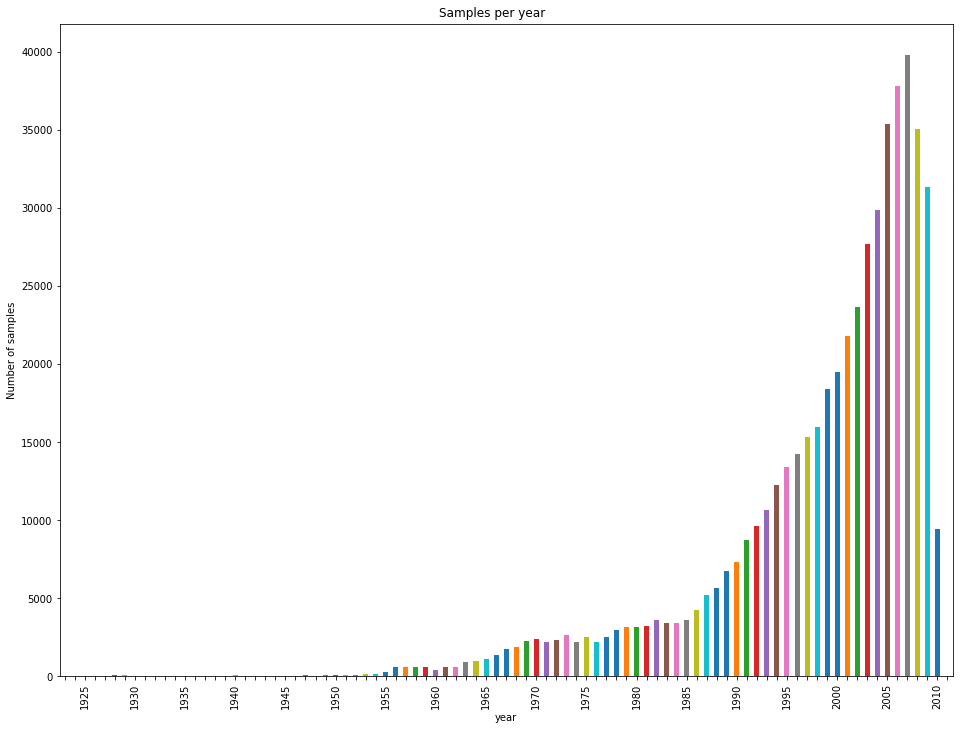
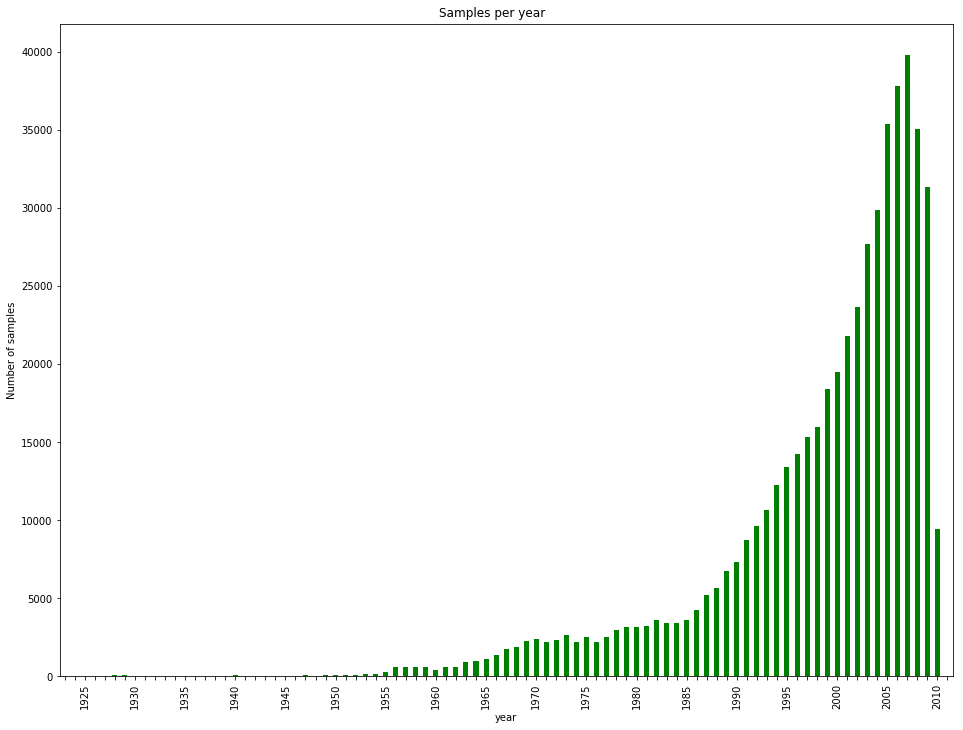
Update plot, update html

Changed region(s): [[0.405, 0.0904, 0.9969, 0.9342]]

diff --git a/FinalProject/datastory/test1.html b/FinalProject/datastory/test1.html
@@ -349,9 +349,39 @@
 			<!--Image here -->
 		</div>
 		<div class="container reveal_right col s6">
-			<p>
-			<!--Text here -->
+			<p id="acousticness" style="display:hidden;">
+			 Most of the songs are not very acoustic today. The median acousticness seems to decrease with the years, especially after the 70s.
 			</p>
+			<p id="artist" style="display:hidden;">
+			 Thankfully, we can see a correlation between the artist hotness and the song hotness. The distribution also seems to less centered around 0.5 in the recent years.
+			</p>
+			<p id="danceability" style="display:hidden;">
+			 We can't say much, except that it seems centered around 0.5.
+			</p>
+			<p id="duration" style="display:hidden;">
+			 The median is around 250s. The best (and worst) songs are really close to this value, but their distribution is probably the same as with the other hotness values, it's just that there are fewer samples. We can see a jump from a ~200s center to the ~250s center after the 60s.
+			</p>
+			<p id="energy" style="display:hidden;">
+			 Same as with duration, we see a shift decade by decade, where the songs become more energetic.
+			</p>
+			<p id="instrumentalness" style="display:hidden;">
+			 Nothing much to say, except that the songs (at least the ones chosen by the MSD) were never instrumental.
+			</p>
+			<p id="liveness" style="display:hidden;">
+			 The distribution stays the same through the decades.
+			</p>
+			<p id="loudness" style="display:hidden;">
+			 The songs get louder during the 90s and 00s. The top songs seem to be the the louder.
+			</p>
+			<p id="speechiness" style="display:hidden;">
+			 Same as instrumentalness, we can't say much.
+			</p>
+			<p id="tempo" style="display:hidden;">
+			 The tempo distribution stays the same throughout the years.
+			</p>
+			<p id="valence" style="display:hidden;">
+			 The valence gets "worse" through the decades and the best songs stay around the 0.5 value.
+			 </p>
 		</div>
 	</div>
     <!-- YEAR SECTION END -->
